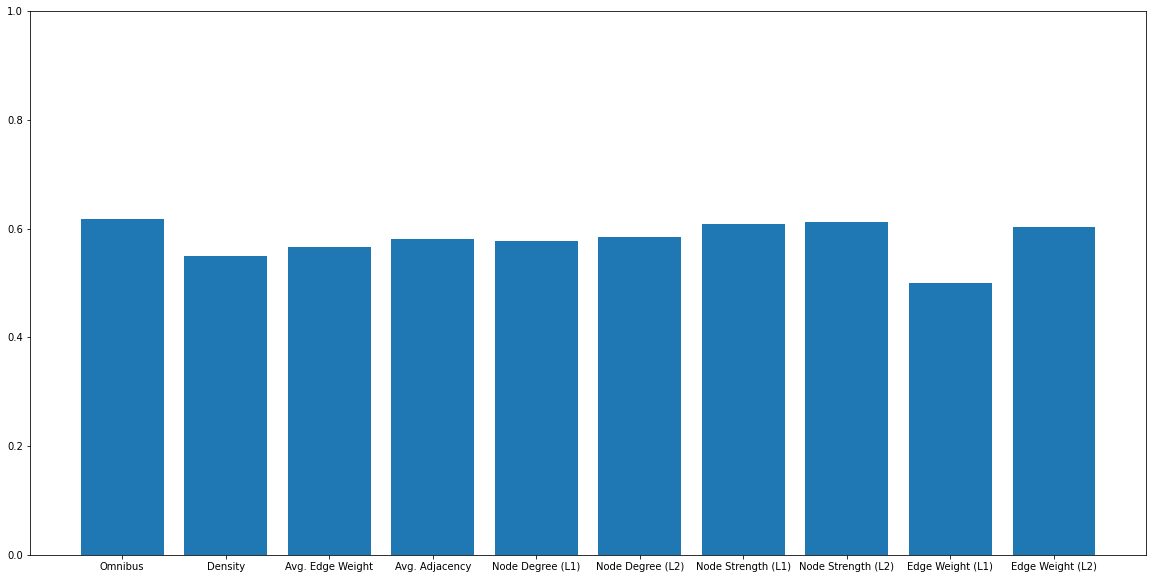
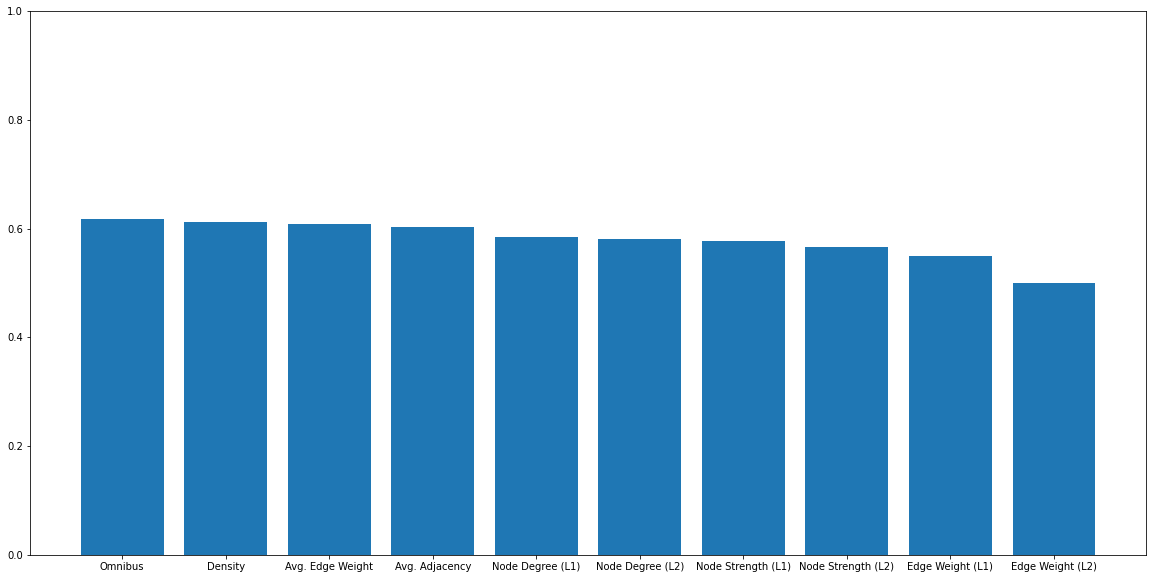
deploy: 4622eec6f3e1976feb19ff07e2dd682df9aef3dc

Changed region(s): [[0.1561, 0.3731, 0.4996, 0.4663], [0.7806, 0.3731, 0.9679, 0.4974], [0.5308, 0.3731, 0.7806, 0.4352]]

diff --git a/searchindex.js b/searchindex.js
@@ -1,1 +1,1 @@
-Search.setIndex({docnames:["intro","markdown","notebooks","pipeline"],envversion:{"sphinx.domains.c":2,"sphinx.domains.changeset":1,"sphinx.domains.citation":1,"sphinx.domains.cpp":4,"sphinx.domains.index":1,"sphinx.domains.javascript":2,"sphinx.domains.math":2,"sphinx.domains.python":3,"sphinx.domains.rst":2,"sphinx.domains.std":2,"sphinx.ext.intersphinx":1,"sphinxcontrib.bibtex":9,sphinx:56},filenames:["intro.md","markdown.md","notebooks.ipynb","pipeline.ipynb"],objects:{},objnames:{},objtypes:{},terms:{"0":[2,3],"1":[2,3],"10":[2,3],"100":2,"1024":3,"19680801":2,"2":[0,3],"20":3,"2014":1,"3":3,"32":3,"332":3,"3d":3,"4":[2,3],"5":2,"5442708333333333":3,"5504092261904762":3,"8":3,"9":3,"default":1,"do":[1,2,3],"function":1,"import":[2,3],"true":3,And:0,As:2,At:1,But:2,For:[1,2,3],If:1,In:1,It:1,The:[1,3],There:[1,2],ab:3,about:[1,2],absolut:3,accept:1,account:3,add:1,add_:2,adjmat_avg:3,again:1,aka:3,align:2,all:[1,3],allow:1,alreadi:1,also:[1,2],ani:1,anoth:[1,3],append:3,ar:3,arang:3,arrai:[2,3],artist:3,associ:1,auditori:1,australia:1,avg:3,avgadjmat_matrix:3,avgedgeweight_matrix:3,ax:[2,3],bar:3,barcontain:3,base_graph_kernel:3,basic:3,begin:2,being:1,between:3,bib:1,bibliographi:1,bibtex:1,block:[0,1],book:[1,2],both:1,box:1,brain:3,brian:1,brisban:1,build:1,built:1,bundl:0,calcul:3,call:1,came:3,can:[1,2],cell:1,characterist:3,check:[0,2],christoph:1,cite:1,cm:2,cmap:2,code:0,cognit:1,cold:2,color:2,command:1,commonmark:1,compar:3,complex:1,comput:[1,3],confer:1,consid:3,construct:3,content:[0,1],context:3,convert:3,coolwarm:2,cortex:1,count_nonzero:3,creat:[2,3],custom_lin:2,cycler:2,d:1,data:2,dataset:3,de:1,defin:1,degree1:3,degree2:3,density_dissim_matrix:3,depend:1,diff:3,differ:1,directli:1,discrim:3,discrim_avgadjmat:3,discrim_avgedgeweight:3,discrim_dens:3,discrim_edgeweight_l1:3,discrim_edgeweight_l2:3,discrim_nodedeg_l1:3,discrim_nodedeg_l2:3,discrim_nodestr_l1:3,discrim_nodestr_l2:3,discrim_omni:3,discrimonesampl:3,displai:1,dissimilar:3,dist:3,divid:3,doc:1,document:[1,2],doesn:1,dollar:2,e:0,each:3,ecosystem:1,edgeweight_avg:3,edgeweight_matrix_l1:3,edgeweight_matrix_l2:3,emb:[2,3],embedd:3,embedding1:3,embedding2:3,end:2,entir:[1,3],enumer:3,escap:2,etc:2,everi:3,evid:1,exampl:[1,2],exist:[1,3],extens:1,facecolor:3,fals:3,feel:0,fig:2,figsiz:[2,3],figur:3,find:3,first:[1,3],fit_transform:3,fix:2,flavor:1,follow:[1,3],fro:3,from:2,frontier:1,full:3,gener:3,genotyp:3,give:0,graph:3,graspolog:3,gs:3,guid:2,ha:[1,3],hdhpk14:1,heatmap:3,heer:1,here:[0,1,2,3],holdgraf:1,holdgraf_evidence_2014:1,hot:2,how:0,html:2,human:1,hyppo:3,i:3,ii:2,imag:2,includ:[1,2,3],inform:[1,2],init:1,initi:3,initialization_object:3,inner_hier_label:3,input:1,insert:1,insid:1,interact:2,intern:1,intro:1,ion:2,ipynb:1,its:1,j:3,jupyt:[1,2],jupytext:1,k:3,keep:2,kernel:1,kind:1,knight:1,ks:3,la_:2,label:3,languag:1,legend:2,len:3,less:1,like:1,linalg:3,line2d:2,line:[1,2],linspac:2,ll:1,load_mic:3,logspac:2,look:1,lot:2,lw:2,make:2,mani:1,markedli:1,markup:1,math:2,matplotlib:[2,3],matric:3,max:3,mbox:2,mc:0,md:1,mean:2,medium:2,metadata:1,metric:3,mice:3,more:[0,1,2],moreov:1,most:1,mous:3,mri:3,must:1,my:1,mydirectivenam:1,n:[1,2],n_elbow:3,name:1,nb:1,networkx:3,neurosci:1,node_label:3,nodedeg_matrix_l1:3,nodedeg_matrix_l2:3,nodestr_matrix_l1:3,nodestr_matrix_l2:3,nonzero:3,normal:3,note:[0,1,3],notebook:1,np:[2,3],num_edg:3,num_nod:3,num_nodes_poss:3,number:3,numpi:[2,3],nx:3,object:3,omni:3,omni_embed:3,omni_matrix:3,omnibu:3,omnibusemb:3,onc:1,one:[1,3],onli:[1,3],ord:3,out:[0,2],output:1,p:3,packag:3,page:[0,1],pair:3,paslei:1,path:[1,3],pattern:1,per:3,pipelin:3,plot:2,plt:[2,3],possibl:3,post:2,power:1,pre:1,predict:1,print:[1,3],prop_cycl:2,properli:1,provid:3,purpos:1,pyplot:[2,3],ramsai:1,randn:2,random:2,rang:[2,3],ravel:3,rcparam:2,refer:1,regular:1,rel:1,relat:3,render:1,rep:3,reproduc:2,reshap:3,rest:1,result:1,robert:1,rolenam:1,row:3,run:1,s:[1,2],same:1,sampl:[0,2],scaled_avgadjmat_dissim:3,scaled_avgedgeweight_dissim:3,scaled_control_dissim:3,scaled_density_dissim:3,scaled_dissimilar:3,scaled_edgeweight_dissim_l1:3,scaled_edgeweight_dissim_l2:3,scaled_nodedeg_dissim_l1:3,scaled_nodedeg_dissim_l2:3,scaled_nodestr_dissim_l1:3,scaled_nodestr_dissim_l2:3,scaled_omni_dissim:3,scan:3,seaborn:3,see:[0,1,2],seed:2,serv:1,set_facecolor:3,shape:3,shortest:3,shortestpath:3,sign:2,similar:1,simpl:3,simplest:1,simpli:3,slight:1,small:[0,1],sn:3,so:1,some:[1,2],span:1,specif:1,sphinx:1,stack:3,stand:1,stat:3,state:2,statist:3,store:1,strength1:3,strength2:3,structur:[0,1],subplot:2,subtract:3,sum:3,sure:2,syntax:1,t:[1,2],take:3,talk:3,test:3,test_stat2:3,test_stat:3,tex:2,text:1,thei:1,thi:[0,1,2],those:[1,3],time:1,tool:1,transform:3,two:[1,3],unlik:3,valid:1,valu:3,variat:1,vector:3,veri:1,vertexhistogram:3,visual:3,visul:3,w:3,wa:3,want:2,we:3,weisfeilerlehman:3,welcom:1,well:2,wendi:1,were:3,when:[1,3],wherea:[1,3],whether:1,which:1,with_label:3,work:[1,2],write:1,written:1,y:3,ylim:3,you:[0,1,2],your:2,zero:3},titles:["Welcome to your Jupyter Book","Markdown Files","Content with notebooks","Exploring Different Kernels"],titleterms:{"class":3,ad:1,adjac:3,ar:1,averag:3,ben:3,block:2,book:0,citat:1,code:[1,2],content:2,data:3,degre:3,densiti:3,differ:3,direct:1,discrimin:3,edg:3,execut:1,explor:3,file:1,from:3,global:3,grakel:3,jupyt:0,kernel:3,l1:3,l2:3,load:3,markdown:[1,2],matrix:3,myst:[1,2],nd:3,network:3,node:3,norm:3,notebook:2,output:2,plot:3,role:1,s:3,scienc:3,strength:3,us:[1,3],weight:3,welcom:0,what:1,wise:3,your:[0,1]}})
+Search.setIndex({docnames:["intro","markdown","notebooks","pipeline"],envversion:{"sphinx.domains.c":2,"sphinx.domains.changeset":1,"sphinx.domains.citation":1,"sphinx.domains.cpp":4,"sphinx.domains.index":1,"sphinx.domains.javascript":2,"sphinx.domains.math":2,"sphinx.domains.python":3,"sphinx.domains.rst":2,"sphinx.domains.std":2,"sphinx.ext.intersphinx":1,"sphinxcontrib.bibtex":9,sphinx:56},filenames:["intro.md","markdown.md","notebooks.ipynb","pipeline.ipynb"],objects:{},objnames:{},objtypes:{},terms:{"0":[2,3],"1":[2,3],"10":[2,3],"100":2,"1024":3,"19680801":2,"2":[0,3],"20":3,"2014":1,"3":3,"32":3,"332":3,"3d":3,"4":[2,3],"5":2,"5442708333333333":3,"5504092261904762":3,"8":3,"9":3,"default":1,"do":[1,2,3],"function":1,"import":[2,3],"true":3,And:0,As:2,At:1,But:2,For:[1,2,3],If:1,In:1,It:1,The:[1,3],There:[1,2],ab:3,about:[1,2],absolut:3,accept:1,account:3,add:1,add_:2,adjmat_avg:3,again:1,aka:3,align:2,all:[1,3],allow:1,alreadi:1,also:[1,2],ani:1,anoth:[1,3],append:3,ar:3,arang:3,arrai:[2,3],artist:3,associ:1,auditori:1,australia:1,avg:3,avgadjmat_matrix:3,avgedgeweight_matrix:3,ax:[2,3],bar:3,barcontain:3,base_graph_kernel:3,basic:3,begin:2,being:1,between:3,bib:1,bibliographi:1,bibtex:1,block:[0,1],book:[1,2],both:1,box:1,brain:3,brian:1,brisban:1,build:1,built:1,bundl:0,calcul:3,call:1,came:3,can:[1,2],cell:1,characterist:3,check:[0,2],christoph:1,cite:1,cm:2,cmap:2,code:0,cognit:1,cold:2,color:2,command:1,commonmark:1,compar:3,complex:1,comput:[1,3],confer:1,consid:3,construct:3,content:[0,1],context:3,convert:3,coolwarm:2,cortex:1,count_nonzero:3,creat:[2,3],custom_lin:2,cycler:2,d:1,data:2,dataset:3,de:1,defin:1,degree1:3,degree2:3,density_dissim_matrix:3,depend:1,diff:3,differ:1,directli:1,discrim:3,discrim_avgadjmat:3,discrim_avgedgeweight:3,discrim_dens:3,discrim_edgeweight_l1:3,discrim_edgeweight_l2:3,discrim_nodedeg_l1:3,discrim_nodedeg_l2:3,discrim_nodestr_l1:3,discrim_nodestr_l2:3,discrim_omni:3,discrimonesampl:3,displai:1,dissimilar:3,dist:3,divid:3,doc:1,document:[1,2],doesn:1,dollar:2,e:0,each:3,ecosystem:1,edgeweight_avg:3,edgeweight_matrix_l1:3,edgeweight_matrix_l2:3,emb:[2,3],embedd:3,embedding1:3,embedding2:3,end:2,entir:[1,3],enumer:3,escap:2,etc:2,everi:3,evid:1,exampl:[1,2],exist:[1,3],extens:1,facecolor:3,fals:3,feel:0,fig:2,figsiz:[2,3],figur:3,find:3,first:[1,3],fit_transform:3,fix:2,flavor:1,follow:[1,3],fro:3,from:2,frontier:1,full:3,gener:3,genotyp:3,give:0,graph:3,graspolog:3,gs:3,guid:2,ha:[1,3],hdhpk14:1,heatmap:3,heer:1,here:[0,1,2,3],holdgraf:1,holdgraf_evidence_2014:1,hot:2,how:0,html:2,human:1,hyppo:3,i:3,ii:2,imag:2,includ:[1,2,3],inform:[1,2],init:1,initi:3,initialization_object:3,inner_hier_label:3,input:1,insert:1,insid:1,interact:2,intern:1,intro:1,ion:2,ipynb:1,its:1,j:3,jupyt:[1,2],jupytext:1,k:3,keep:2,kernel:1,kind:1,knight:1,ks:3,la_:2,label:3,languag:1,legend:2,len:3,less:1,like:1,linalg:3,line2d:2,line:[1,2],linspac:2,ll:1,load_mic:3,logspac:2,look:1,lot:2,lw:2,make:2,mani:1,markedli:1,markup:1,math:2,matplotlib:[2,3],matric:3,max:3,mbox:2,mc:0,md:1,mean:2,medium:2,metadata:1,metric:3,mice:3,more:[0,1,2],moreov:1,most:1,mous:3,mri:3,must:1,my:1,mydirectivenam:1,n:[1,2],n_elbow:3,name:1,nb:1,networkx:3,neurosci:1,node_label:3,nodedeg_matrix_l1:3,nodedeg_matrix_l2:3,nodestr_matrix_l1:3,nodestr_matrix_l2:3,nonzero:3,normal:3,note:[0,1,3],notebook:1,np:[2,3],num_edg:3,num_nod:3,num_nodes_poss:3,number:3,numpi:[2,3],nx:3,object:3,omni:3,omni_embed:3,omni_matrix:3,omnibu:3,omnibusemb:3,onc:1,one:[1,3],onli:[1,3],ord:3,out:[0,2],output:1,p:3,packag:3,page:[0,1],pair:3,paslei:1,path:[1,3],pattern:1,per:3,pipelin:3,plot:2,plt:[2,3],possibl:3,post:2,power:1,pre:1,predict:1,print:[1,3],prop_cycl:2,properli:1,provid:3,purpos:1,pyplot:[2,3],ramsai:1,randn:2,random:2,rang:[2,3],ravel:3,rcparam:2,refer:1,regular:1,rel:1,relat:3,render:1,rep:3,reproduc:2,reshap:3,rest:1,result:1,revers:3,robert:1,rolenam:1,row:3,run:1,s:[1,2],same:1,sampl:[0,2],scaled_avgadjmat_dissim:3,scaled_avgedgeweight_dissim:3,scaled_control_dissim:3,scaled_density_dissim:3,scaled_dissimilar:3,scaled_edgeweight_dissim_l1:3,scaled_edgeweight_dissim_l2:3,scaled_nodedeg_dissim_l1:3,scaled_nodedeg_dissim_l2:3,scaled_nodestr_dissim_l1:3,scaled_nodestr_dissim_l2:3,scaled_omni_dissim:3,scan:3,seaborn:3,see:[0,1,2],seed:2,serv:1,set_facecolor:3,shape:3,shortest:3,shortestpath:3,sign:2,similar:1,simpl:3,simplest:1,simpli:3,slight:1,small:[0,1],sn:3,so:1,some:[1,2],sort:3,span:1,specif:1,sphinx:1,stack:3,stand:1,stat:3,state:2,statist:3,store:1,strength1:3,strength2:3,structur:[0,1],subplot:2,subtract:3,sum:3,sure:2,syntax:1,t:[1,2],take:3,talk:3,test:3,test_stat2:3,test_stat:3,tex:2,text:1,thei:1,thi:[0,1,2],those:[1,3],time:1,tool:1,transform:3,two:[1,3],unlik:3,valid:1,valu:3,variat:1,vector:3,veri:1,vertexhistogram:3,visual:3,visul:3,w:3,wa:3,want:2,we:3,weisfeilerlehman:3,welcom:1,well:2,wendi:1,were:3,when:[1,3],wherea:[1,3],whether:1,which:1,with_label:3,work:[1,2],write:1,written:1,y:3,ylim:3,you:[0,1,2],your:2,zero:3},titles:["Welcome to your Jupyter Book","Markdown Files","Content with notebooks","Exploring Different Kernels"],titleterms:{"class":3,ad:1,adjac:3,ar:1,averag:3,ben:3,block:2,book:0,citat:1,code:[1,2],content:2,data:3,degre:3,densiti:3,differ:3,direct:1,discrimin:3,edg:3,execut:1,explor:3,file:1,from:3,global:3,grakel:3,jupyt:0,kernel:3,l1:3,l2:3,load:3,markdown:[1,2],matrix:3,myst:[1,2],nd:3,network:3,node:3,norm:3,notebook:2,output:2,plot:3,role:1,s:3,scienc:3,strength:3,us:[1,3],weight:3,welcom:0,what:1,wise:3,your:[0,1]}})

diff --git a/pipeline.html b/pipeline.html
@@ -890,6 +890,7 @@ const thebe_selector_output = ".output, .cell_output"
     <span class="s1">&#39;Node Strength (L2)&#39;</span><span class="p">,</span> <span class="s1">&#39;Edge Weight (L1)&#39;</span><span class="p">,</span> <span class="s1">&#39;Edge Weight (L2)&#39;</span><span class="p">]</span>
 <span class="n">stats</span> <span class="o">=</span> <span class="p">[</span><span class="n">discrim_omni</span><span class="p">,</span> <span class="n">discrim_density</span><span class="p">,</span> <span class="n">discrim_avgedgeweight</span><span class="p">,</span> <span class="n">discrim_avgadjmat</span><span class="p">,</span> <span class="n">discrim_nodedeg_l1</span><span class="p">,</span> <span class="n">discrim_nodedeg_l2</span><span class="p">,</span> \
     <span class="n">discrim_nodestr_l1</span><span class="p">,</span> <span class="n">discrim_nodestr_l2</span><span class="p">,</span> <span class="n">discrim_edgeweight_l1</span><span class="p">,</span> <span class="n">discrim_edgeweight_l2</span><span class="p">]</span>
+<span class="n">stats</span><span class="o">.</span><span class="n">sort</span><span class="p">(</span><span class="n">reverse</span><span class="o">=</span><span class="kc">True</span><span class="p">)</span>
 
 <span class="n">plt</span><span class="o">.</span><span class="n">figure</span><span class="p">(</span><span class="n">figsize</span><span class="o">=</span><span class="p">(</span><span class="mi">20</span><span class="p">,</span><span class="mi">10</span><span class="p">),</span> <span class="n">facecolor</span><span class="o">=</span><span class="s1">&#39;w&#39;</span><span class="p">)</span>
 <span class="n">plt</span><span class="o">.</span><span class="n">ylim</span><span class="p">([</span><span class="mi">0</span><span class="p">,</span> <span class="mf">1.0</span><span class="p">])</span>
